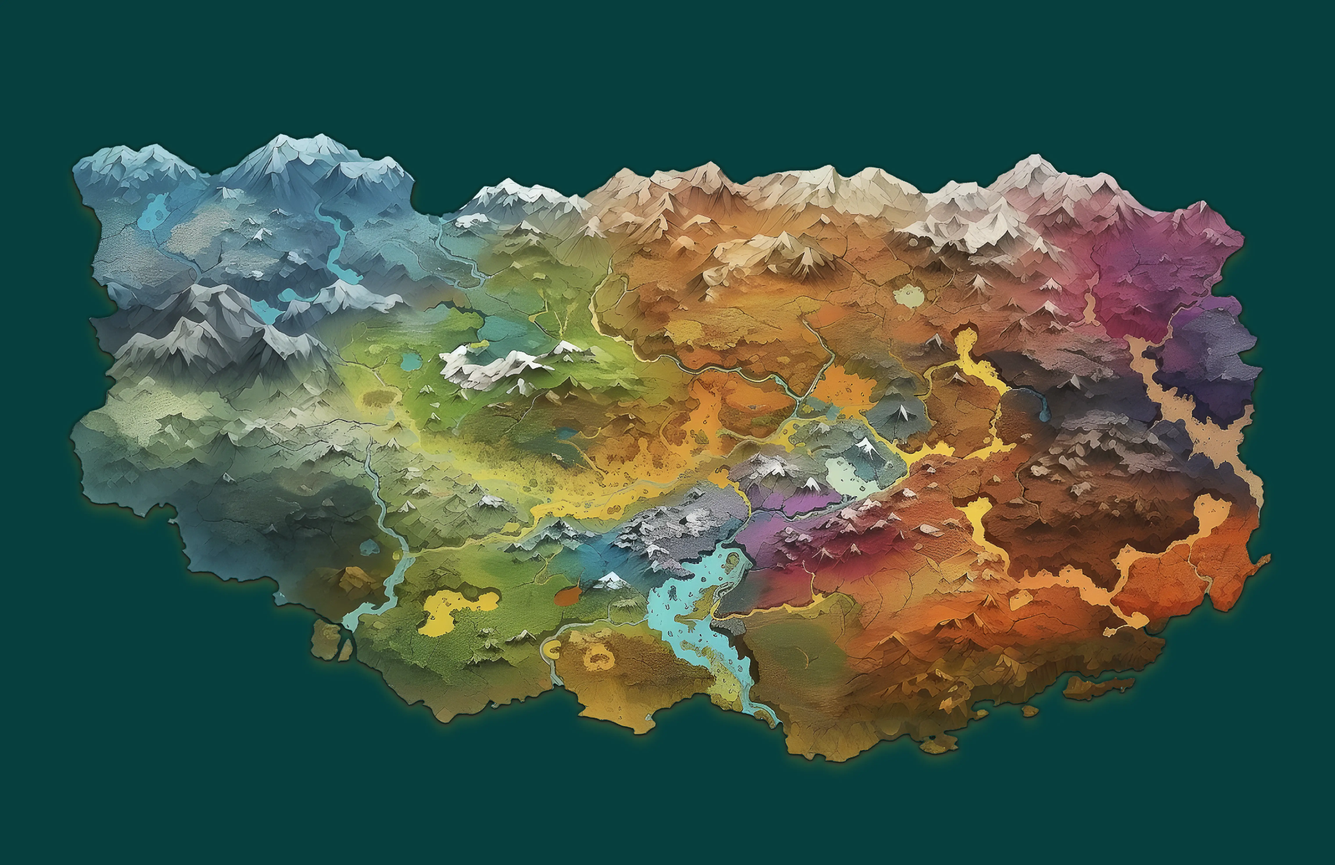
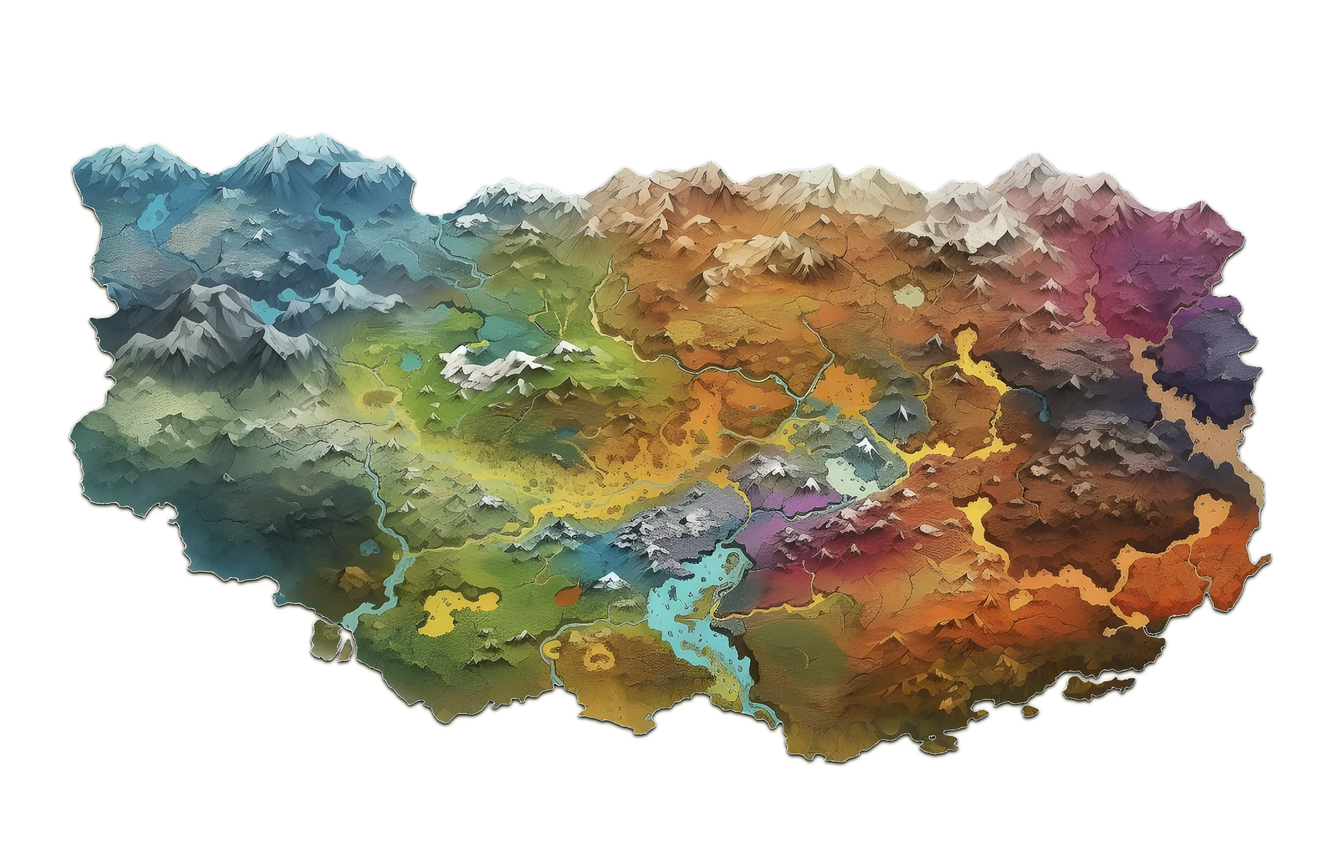
Dapp island with transaprency and stroke fix

diff --git a/src/ui/Island/Background.tsx b/src/ui/Island/Background.tsx
@@ -15,11 +15,11 @@ const getOverlay = (overlay: OverlayType) => {
     return (
       <>
         <Rect
-          opacity={1}
           fill="#1F3D3B"
           width={ISLAND_BOX.width}
           height={ISLAND_BOX.height}
           globalCompositeOperation="color"
+          stroke="#1C2D2D"
         />
         <Rect
           opacity={0.4}
@@ -27,7 +27,6 @@ const getOverlay = (overlay: OverlayType) => {
           width={ISLAND_BOX.width}
           height={ISLAND_BOX.height}
           globalCompositeOperation="hard-light"
-          stroke="#172828"
         />
         <Rect
           opacity={0.4}
@@ -107,9 +106,7 @@ export default function Background({ overlay }: { overlay: OverlayType }) {
   return (
     <Group listening={false}>
       <KonvaImage image={mask} />
-      <Group opacity={0} ref={overlayRef}>
-        {currentOverlay}
-      </Group>
+      <Group ref={overlayRef}>{currentOverlay}</Group>
     </Group>
   )
 }

diff --git a/src/public/index.html b/src/public/index.html
@@ -6,7 +6,7 @@
     <title>Subscape</title>
     <style>
       body {
-        background: #182928;
+        background: #1C2D2D;
       }
     </style>
   </head>
